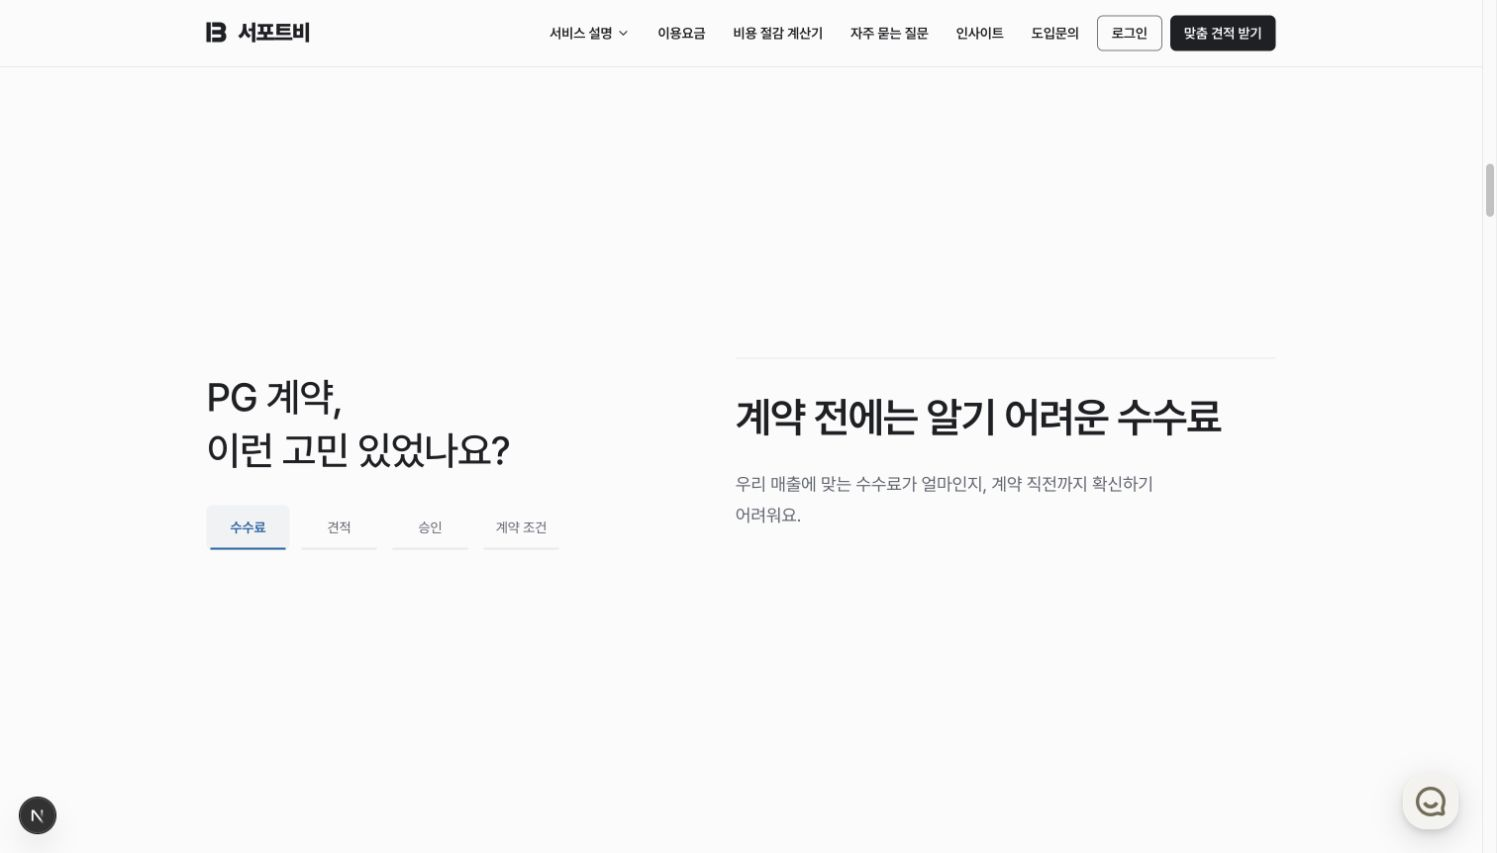
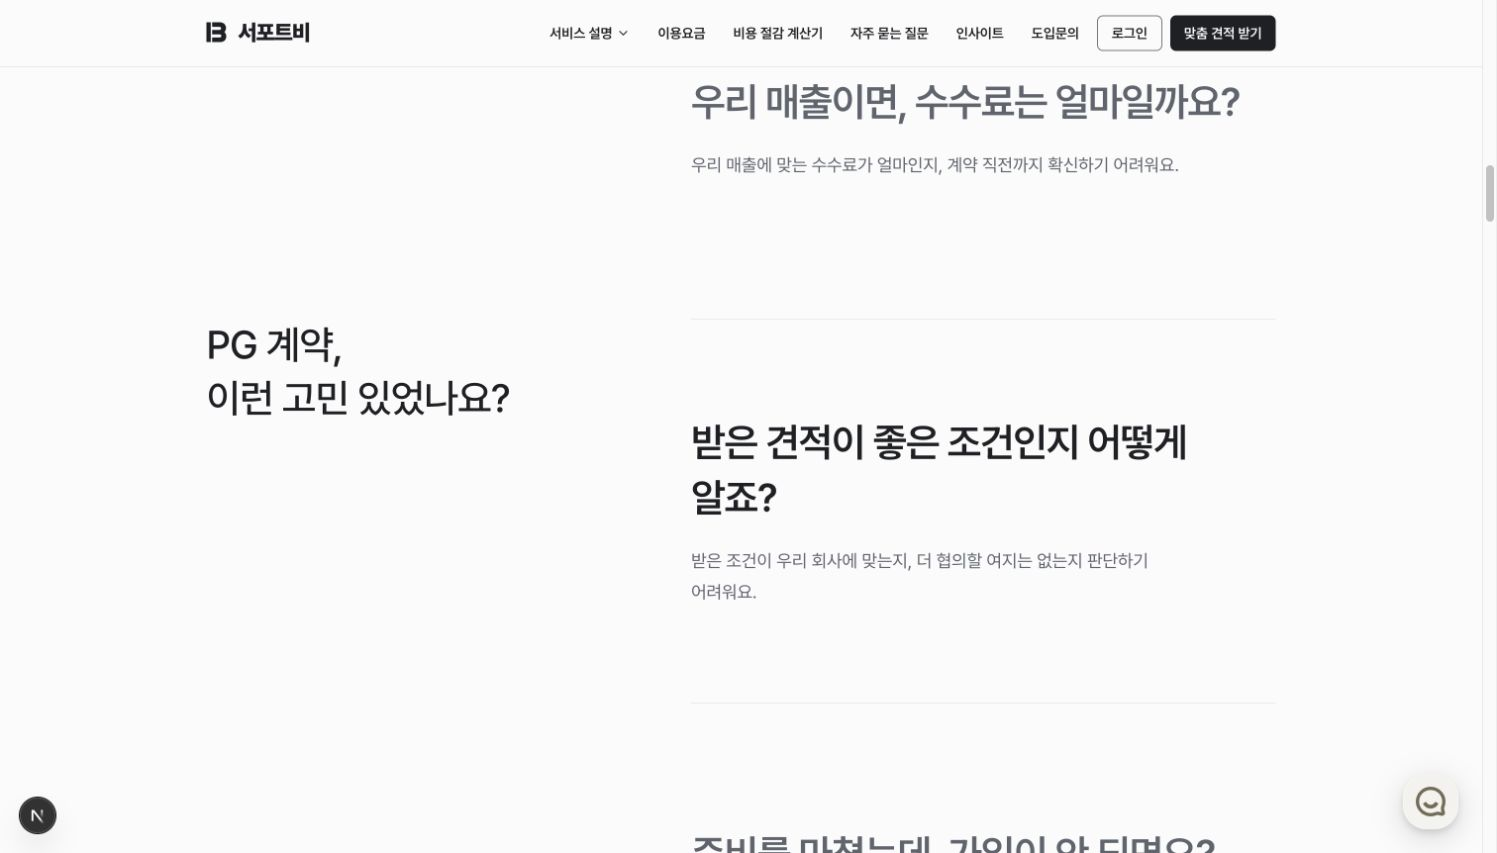
feat: 랜딩 문제를 세로 질문 스크롤로 전환

diff --git a/components/landing/__tests__/ScrollDrivenProblem.test.tsx b/components/landing/__tests__/ScrollDrivenProblem.test.tsx
@@ -10,27 +10,27 @@ vi.mock('motion/react', async (importOriginal) => ({
 }));
 
 const items = [
-  { num: '01', keyword: '수수료', title: '수수료', desc: '계약 전에 확인해요.' },
-  { num: '02', keyword: '견적', title: '견적', desc: '조건을 확인해요.' },
-  { num: '03', keyword: '승인', title: '심사', desc: '승인을 확인해요.' },
-  { num: '04', keyword: '계약 조건', title: '정산', desc: '주기를 확인해요.' },
+  { num: '01', title: '수수료', desc: '계약 전에 확인해요.' },
+  { num: '02', title: '견적', desc: '조건을 확인해요.' },
+  { num: '03', title: '심사', desc: '승인을 확인해요.' },
+  { num: '04', title: '정산', desc: '주기를 확인해요.' },
 ];
 beforeEach(() => { scroll.progress = motionValue(0); });
 
-it('집중형은 현재 문제만 노출하고 빠른 이동과 역스크롤에도 진행 표시를 맞춘다', () => {
+it('질문은 모두 읽을 수 있고 스크롤과 역스크롤에 따라 현재 질문이 바뀐다', () => {
   render(<ScrollDrivenProblem heading={<h2>PG 계약의 어려움</h2>} items={items} {...{ presentation: 'focus' as const }} />);
-  expect(screen.getAllByRole('heading', { level: 3 })).toHaveLength(1);
-  expect(screen.getByRole('heading', { level: 3 })).toHaveTextContent('수수료');
+  expect(screen.getAllByRole('heading', { level: 3 })).toHaveLength(4);
+  expect(screen.getByText('계약 전에 확인해요.')).toBeVisible();
   expect(screen.getByRole('button', { name: '수수료' })).toHaveAttribute('aria-current', 'step');
   expect(screen.queryByText(/0[1-4]/)).not.toBeInTheDocument();
 
   act(() => { (scroll.progress as ReturnType<typeof motionValue<number>>).set(1); });
-  expect(screen.getAllByRole('heading', { level: 3 })).toHaveLength(1);
-  expect(screen.getByRole('heading', { level: 3 })).toHaveTextContent('정산');
-  expect(screen.getByRole('button', { name: '계약 조건' })).toHaveAttribute('aria-current', 'step');
+  expect(screen.getAllByRole('heading', { level: 3 })).toHaveLength(4);
+  expect(screen.getByText('주기를 확인해요.')).toBeVisible();
+  expect(screen.getByRole('button', { name: '정산' })).toHaveAttribute('aria-current', 'step');
 
   act(() => { (scroll.progress as ReturnType<typeof motionValue<number>>).set(0.3); });
-  expect(screen.getByRole('heading', { level: 3 })).toHaveTextContent('견적');
+
   expect(screen.getByRole('button', { name: '견적' })).toHaveAttribute('aria-current', 'step');
   expect(screen.getByRole('heading', { level: 2 })).toHaveTextContent('PG 계약의 어려움');
 });
@@ -40,23 +40,12 @@ it('기존 PG 랜딩의 기본 누적형은 유지한다', () => {
   expect(screen.getAllByRole('heading', { level: 3 })).toHaveLength(4);
 });
 
-it('진행 막대를 선택하면 해당 문제의 스크롤 구간으로 이동한다', () => {
-  const scrollTo = vi.spyOn(window, 'scrollTo').mockImplementation(() => {});
-  const { container } = render(<ScrollDrivenProblem heading={<h2>PG 계약</h2>} items={items} presentation="focus" />);
-  const track = container.firstElementChild as HTMLElement;
-  Object.defineProperty(track, 'offsetHeight', { value: 2600 });
-  vi.spyOn(track, 'getBoundingClientRect').mockReturnValue({ top: 500 } as DOMRect);
-  vi.stubGlobal('innerHeight', 1000);
-  vi.stubGlobal('scrollY', 200);
-
-  fireEvent.click(screen.getByRole('button', { name: '승인' }));
-  expect(scrollTo).toHaveBeenLastCalledWith({ top: 1700, behavior: 'smooth' });
-  act(() => { (scroll.progress as ReturnType<typeof motionValue<number>>).set(0.625); });
-  expect(screen.getByRole('button', { name: '승인' })).toHaveAttribute('aria-current', 'step');
-  expect(screen.getByRole('button', { name: '수수료' })).not.toHaveAttribute('aria-current');
-
-  fireEvent.click(screen.getByRole('button', { name: '수수료' }));
-  expect(scrollTo).toHaveBeenLastCalledWith({ top: 900, behavior: 'smooth' });
-  scrollTo.mockRestore();
-  vi.unstubAllGlobals();
+it('질문을 선택하면 그 질문을 화면 중앙으로 이동한다', () => {
+  const scrollIntoView = vi.fn();
+  render(<ScrollDrivenProblem heading={<h2>PG 계약</h2>} items={items} presentation="focus" />);
+  const question = screen.getByRole('button', { name: '심사' });
+  const article = question.closest('article')!;
+  article.scrollIntoView = scrollIntoView;
+  fireEvent.click(question);
+  expect(scrollIntoView).toHaveBeenCalledWith({ block: 'center', behavior: 'smooth' });
 });

diff --git a/components/landing/scroll-pinned/ScrollDrivenProblem.tsx b/components/landing/scroll-pinned/ScrollDrivenProblem.tsx
@@ -1,14 +1,14 @@
 'use client';
 
-import { Fragment, type ReactNode } from 'react';
-import { motion } from 'motion/react';
+import { Fragment, useRef, useState, type ReactNode } from 'react';
+import { motion, useScroll, useMotionValueEvent } from 'motion/react';
 import { ScrollPinnedSection } from '@/components/landing/ScrollPinnedSection';
 import { ProblemCard } from '@/components/landing/ProblemCard';
 import { FadeInView } from '@/components/landing/FadeInView';
 import { EASE_OUT } from '@/lib/landing/ease';
 import styles from './problem-story.module.css';
 
-type Item = { num: string; keyword?: string; title: string; desc: string };
+type Item = { num: string; title: string; desc: string };
 
 // Problem 섹션: pin일 때 카드가 스크롤에 따라 1→2→3→4 누적 등장(i<=activeStep이면 표시),
 // 폴백일 때 오늘의 FadeInView 스택. 헤딩(과 선택적 intro)은 위에 고정.
@@ -26,40 +26,7 @@ export function ScrollDrivenProblem({
   presentation?: 'stack' | 'focus';
 }) {
   if (presentation === 'focus') {
-    return (
-      <ScrollPinnedSection steps={items.length} stepVh={65} className={styles.pin}>
-        {({ activeStep, goToStep }) => (
-          <div className={styles.story}>
-            <div className={styles.heading}>
-              <Fragment key="heading">{heading}</Fragment>
-              <Fragment key="intro">{intro}</Fragment>
-              <div className={styles.progress}>
-                <div className={styles.rail} role="group" aria-label="문제로 이동">
-                  {items.map((item, i) => (
-                    <button type="button" key={item.num} aria-current={i === activeStep ? 'step' : undefined} onClick={() => goToStep(i)}>{item.keyword ?? item.title}</button>
-                  ))}
-                </div>
-              </div>
-            </div>
-            <div className={styles.stage}>
-              {items.map((item, i) => (
-                <motion.article
-                  key={item.num}
-                  className={styles.scene}
-                  aria-hidden={i !== activeStep}
-                  initial={false}
-                  animate={{ opacity: i === activeStep ? 1 : 0, y: i === activeStep ? 0 : i < activeStep ? -24 : 24 }}
-                  transition={{ duration: 0.32, ease: EASE_OUT }}
-                >
-                  <h3>{item.title}</h3>
-                  <p>{item.desc}</p>
-                </motion.article>
-              ))}
-            </div>
-          </div>
-        )}
-      </ScrollPinnedSection>
-    );
+    return <ProblemQuestions heading={heading} intro={intro} items={items} />;
   }
   return (
     <ScrollPinnedSection steps={items.length} align="start">
@@ -90,5 +57,40 @@ export function ScrollDrivenProblem({
         </div>
       )}
     </ScrollPinnedSection>
+  );
+}
+
+// 질문 전체를 문서 흐름에 두어 모바일·키보드에서도 숨김 없이 읽을 수 있다.
+function ProblemQuestions({ heading, intro, items }: { heading: ReactNode; intro?: ReactNode; items: Item[] }) {
+  const listRef = useRef<HTMLDivElement>(null);
+  const { scrollYProgress } = useScroll({ target: listRef, offset: ['start center', 'end center'] });
+  const [activeStep, setActiveStep] = useState(0);
+  useMotionValueEvent(scrollYProgress, 'change', (progress) => {
+    setActiveStep(Math.min(items.length - 1, Math.max(0, Math.floor(progress * items.length))));
+  });
+
+  return (
+    <div className={styles.story}>
+      <div className={styles.heading}>
+        <Fragment key="heading">{heading}</Fragment>
+        <Fragment key="intro">{intro}</Fragment>
+      </div>
+      <div ref={listRef} className={styles.questions}>
+        {items.map((item, i) => (
+          <article key={item.num} className={styles.question} data-active={i === activeStep}>
+            <h3>
+              <button
+                type="button"
+                aria-current={i === activeStep ? 'step' : undefined}
+                onClick={(event) => event.currentTarget.closest('article')?.scrollIntoView({ block: 'center', behavior: 'smooth' })}
+              >
+                {item.title}
+              </button>
+            </h3>
+            <p>{item.desc}</p>
+          </article>
+        ))}
+      </div>
+    </div>
   );
 }

diff --git a/components/landing/scroll-pinned/problem-story.module.css b/components/landing/scroll-pinned/problem-story.module.css
@@ -1,50 +1,51 @@
-.pin { padding-block: 32px; }
 .story {
   width: 100%;
   max-width: 1080px;
   margin-inline: auto;
   display: grid;
-  grid-template-columns: 0.9fr 1.1fr;
-  align-items: center;
-  gap: clamp(32px, 6vw, 88px);
+  grid-template-columns: 0.8fr 1.2fr;
+  align-items: start;
+  gap: clamp(40px, 7vw, 96px);
 }
-.heading { display: flex; flex-direction: column; align-items: flex-start; gap: 24px; }
-.heading h2 { font-size: clamp(28px, 3vw, 40px); line-height: 1.35; text-wrap: balance; }
-.progress { margin-top: 4px; width: 100%; max-width: 360px; }
-.rail { display: flex; gap: 8px; }
-.rail button { min-height: 44px; flex: 1; cursor: pointer; border-radius: 6px; padding: 12px 4px; background: transparent; color: var(--md-sys-color-on-surface-variant); font-size: 14px; line-height: 1.5; white-space: nowrap; position: relative; transition: color 240ms ease, background-color 240ms ease; }
-.rail button::after { content: ''; position: absolute; bottom: 0; left: 4px; right: 4px; height: 2px; background: var(--md-sys-color-outline-variant); transition: background-color 240ms ease; }
-.rail button[aria-current='step'] { color: var(--md-sys-color-primary); font-weight: 600; }
-.rail button[aria-current='step']::after { background: var(--md-sys-color-primary); }
-.rail button:hover { background: var(--md-sys-color-surface-container); }
-.rail button:focus-visible { outline: 2px solid var(--md-sys-color-primary); outline-offset: 2px; }
-.stage { display: grid; border-top: 1px solid var(--md-sys-color-outline-variant); }
-.scene {
-  grid-area: 1 / 1;
-  align-self: center;
+.heading {
+  position: sticky;
+  top: calc(var(--landing-header-height) + 22vh);
   display: flex;
   flex-direction: column;
   gap: 24px;
-  padding-block: 32px;
-  pointer-events: none;
+  padding-block: 64px;
 }
-.scene h3 { font-size: clamp(28px, 3.2vw, 42px); line-height: 1.3; letter-spacing: -0.03em; font-weight: 600; text-wrap: balance; word-break: keep-all; }
-.scene p { max-width: 26em; font-size: 18px; line-height: 1.75; color: var(--md-sys-color-on-surface-variant); word-break: keep-all; overflow-wrap: anywhere; }
+.heading h2 { font-size: clamp(28px, 3vw, 40px); line-height: 1.35; text-wrap: balance; }
+.questions { min-width: 0; }
+.question {
+  min-height: 45svh;
+  display: flex;
+  flex-direction: column;
+  justify-content: center;
+  gap: 20px;
+  padding-block: 48px;
+  border-bottom: 1px solid var(--md-sys-color-outline-variant);
+}
+.question:last-child { border-bottom: none; }
+.question h3 {
+  color: var(--md-sys-color-on-surface-variant);
+  font-size: clamp(28px, 3vw, 40px);
+  line-height: 1.4;
+  letter-spacing: -0.03em;
+  font-weight: 600;
+  word-break: keep-all;
+  transition: color 240ms ease;
+}
+.question[data-active='true'] h3 { color: var(--md-sys-color-on-surface); }
+.question button { text-align: left; cursor: pointer; border-radius: 6px; }
+.question button:hover { color: var(--md-sys-color-primary); }
+.question button:focus-visible { outline: 2px solid var(--md-sys-color-primary); outline-offset: 8px; }
+.question p { max-width: 28em; font-size: 18px; line-height: 1.75; color: var(--md-sys-color-on-surface-variant); word-break: keep-all; overflow-wrap: anywhere; }
 @media (max-width: 767px) {
-  .pin { padding-block: 20px; }
-  .story { grid-template-columns: 1fr; gap: 24px; }
-  .heading { gap: 12px; }
+  .story { grid-template-columns: 1fr; gap: 16px; }
+  .heading { position: static; padding-block: 0 24px; }
   .heading h2 { font-size: 26px; }
-  .progress { margin-top: 4px; }
-  .scene { gap: 16px; padding-block: 20px; }
-  .scene h3 { font-size: 28px; }
-  .scene p { font-size: 16px; line-height: 1.65; }
-}
-@media (max-height: 700px) {
-  .pin { padding-block: 12px; }
-  .story { gap: 16px; }
-  .heading { gap: 8px; }
-  .heading h2 { font-size: 24px; }
-  .scene { gap: 12px; padding-block: 16px; }
-  .scene h3 { font-size: 26px; }
+  .question { min-height: 38svh; gap: 16px; padding-block: 32px; }
+  .question h3 { font-size: 28px; }
+  .question p { font-size: 16px; line-height: 1.65; }
 }

diff --git a/components/landing/LandingHero.tsx b/components/landing/LandingHero.tsx
@@ -19,26 +19,22 @@ import { HERO_METRICS } from '@/components/landing/hero-metrics';
 const PROBLEM_ITEMS = [
   {
     num: '01',
-    keyword: '수수료',
-    title: '계약 전에는 알기 어려운 수수료',
+    title: '우리 매출이면, 수수료는 얼마일까요?',
     desc: '우리 매출에 맞는 수수료가 얼마인지, 계약 직전까지 확신하기 어려워요.',
   },
   {
     num: '02',
-    keyword: '견적',
-    title: '견적 하나로 결정하기엔 막막해요',
+    title: '받은 견적이 좋은 조건인지 어떻게 알죠?',
     desc: '받은 조건이 우리 회사에 맞는지, 더 협의할 여지는 없는지 판단하기 어려워요.',
   },
   {
     num: '03',
-    keyword: '승인',
-    title: '도입 준비 중에도 승인은 미지수',
+    title: '준비를 마쳤는데, 가입이 안 되면요?',
     desc: 'PG사와 카드사 심사가 끝나기 전에는 실제로 도입할 수 있을지 알기 어려워요.',
   },
   {
     num: '04',
-    keyword: '계약 조건',
-    title: '수수료 말고도 따질 게 많아요',
+    title: '정산주기와 보증보험도 협의할 수 있나요?',
     desc: '정산주기부터 보증보험, 가입비까지. 중요한 조건을 충분히 협의하지 못한 채 계약하기도 해요.',
   },
 ];
@@ -67,7 +63,7 @@ export function LandingHero({ nav }: { nav?: ReactNode }) {
         {/* ── Hero (client: 타이핑·애니메이션·landing-scroll 이펙트) ── */}
         <LandingHeroSection partners={<LandingPartnerMarquee />} />
 
-        {/* ── Problem: 스크롤 위치에 따라 한 문제씩 전환 ── */}
+        {/* ── Problem: 세로 질문을 읽으며 현재 위치 강조 ── */}
         <section className={sectionCls}>
           <ScrollDrivenProblem
             heading={

diff --git a/SCREEN_DESIGN.md b/SCREEN_DESIGN.md
@@ -314,7 +314,7 @@ Award (B4에 인라인 통합 — 별도 라우트 없음)
 
 | # | 라우트 | 제목 | 핵심 |
 |---|---|---|---|
-| — | `/` (공개) | 구매사 랜딩 | 서비스·요금·계산기·FAQ·도입문의 섹션 탐색과 현재 위치 표시, 견적 시작·데모 진입. 문제 제기 구간은 제목을 고정하고 스크롤 위치에 따라 네 문제를 하나씩 전환하며 숫자 대신 수수료·견적·승인·계약 조건 키워드를 표시하고 현재 키워드를 강조한다. 키워드는 클릭·키보드로 선택할 수 있는 버튼이며 해당 문제의 스크롤 구간으로 부드럽게 이동한다. 데스크톱은 좌우 2열, 모바일은 위아래 1열이며 역스크롤도 같은 순서를 따른다. PG 랜딩의 누적형은 유지한다. |
+| — | `/` (공개) | 구매사 랜딩 | 서비스·요금·계산기·FAQ·도입문의 섹션 탐색과 현재 위치 표시, 견적 시작·데모 진입. 문제 제기 구간은 네 질문과 설명을 세로 문서 흐름으로 모두 표시하고, 화면 중앙의 질문을 스크롤·역스크롤에 맞춰 강조한다. 탭·숫자 없이 질문 자체를 클릭하거나 키보드로 선택하면 해당 질문이 화면 중앙으로 부드럽게 이동한다. 데스크톱은 좌측 제목 고정과 우측 질문 목록의 2열, 모바일은 제목을 포함한 자연스러운 1열 스크롤이다. PG 랜딩의 누적형은 유지한다. |
 | — | `/login` | 로그인 | 이메일 + 비밀번호 |
 | — | `/login/ops` | 운영자 로그인(숨김) | Google OAuth 전용. MASTER_ACCOUNT_EMAILS allowlist default-deny. 킬스위치 off 시 404 |
 | — | `/auth/verify?token=...` | 인증 처리(스플래시) | 토큰 검증 → workspaceType 분기 후 각 profile로 |

diff --git a/docs/screenshots/landing-problem-scroll/README.md b/docs/screenshots/landing-problem-scroll/README.md
@@ -1,8 +1,8 @@
 # 구매사 랜딩 문제 제기 구간
 
-2026-10-23 로컬 개발 서버에서 촬영한 화면이다. 스크롤 위치에 따라 문제를 하나씩 표시하고, 키워드 버튼을 클릭하면 해당 문제 구간으로 이동한다.
+2026-10-23 로컬 개발 서버에서 촬영한 화면이다. 질문 네 개를 세로로 배치하고 화면 중앙의 질문을 강조한다. 질문 자체를 클릭하면 해당 질문으로 부드럽게 이동한다.
 
-- [데스크톱](landing-problem-desktop.png): 수수료 키워드를 클릭한 뒤의 화면.
-- [모바일](landing-problem-mobile.png): 390×844 뷰포트에서 승인 키워드를 클릭한 뒤의 화면.
+- [데스크톱](landing-problem-desktop.png): 제목 고정과 세로 질문 목록.
+- [모바일](landing-problem-mobile.png): 390×844 뷰포트의 자연스러운 한 열 스크롤.
 
-브라우저에서 클릭 이동과 현재 키워드 강조를 확인했다. 하단 Next.js 표시와 포인터 강조는 개발·캡처 환경의 표시다.
+브라우저에서 클릭 이동·역스크롤·현재 질문 강조를 확인했다. 하단 Next.js 표시는 개발 환경의 표시다.

diff --git a/CHANGELOG.md b/CHANGELOG.md
@@ -6,7 +6,7 @@ All notable changes to this project will be documented in this file.
 
 ### Changed
 
-- 구매사 랜딩의 PG 계약 고민을 스크롤에 따라 하나씩 살펴볼 수 있어요. 수수료·견적·승인·계약 조건 키워드를 누르면 원하는 고민으로 바로 이동하고, 모바일에서도 같은 흐름으로 읽을 수 있어요.
+- 구매사 랜딩의 PG 계약 고민을 네 가지 질문으로 읽을 수 있어요. 스크롤하면 현재 질문을 강조하고, 질문을 누르면 해당 위치로 이동해요. 모바일에서는 탭 없이 자연스럽게 이어서 읽을 수 있어요.
 
 ## [0.42.1.0] - 2026-10-23
 
